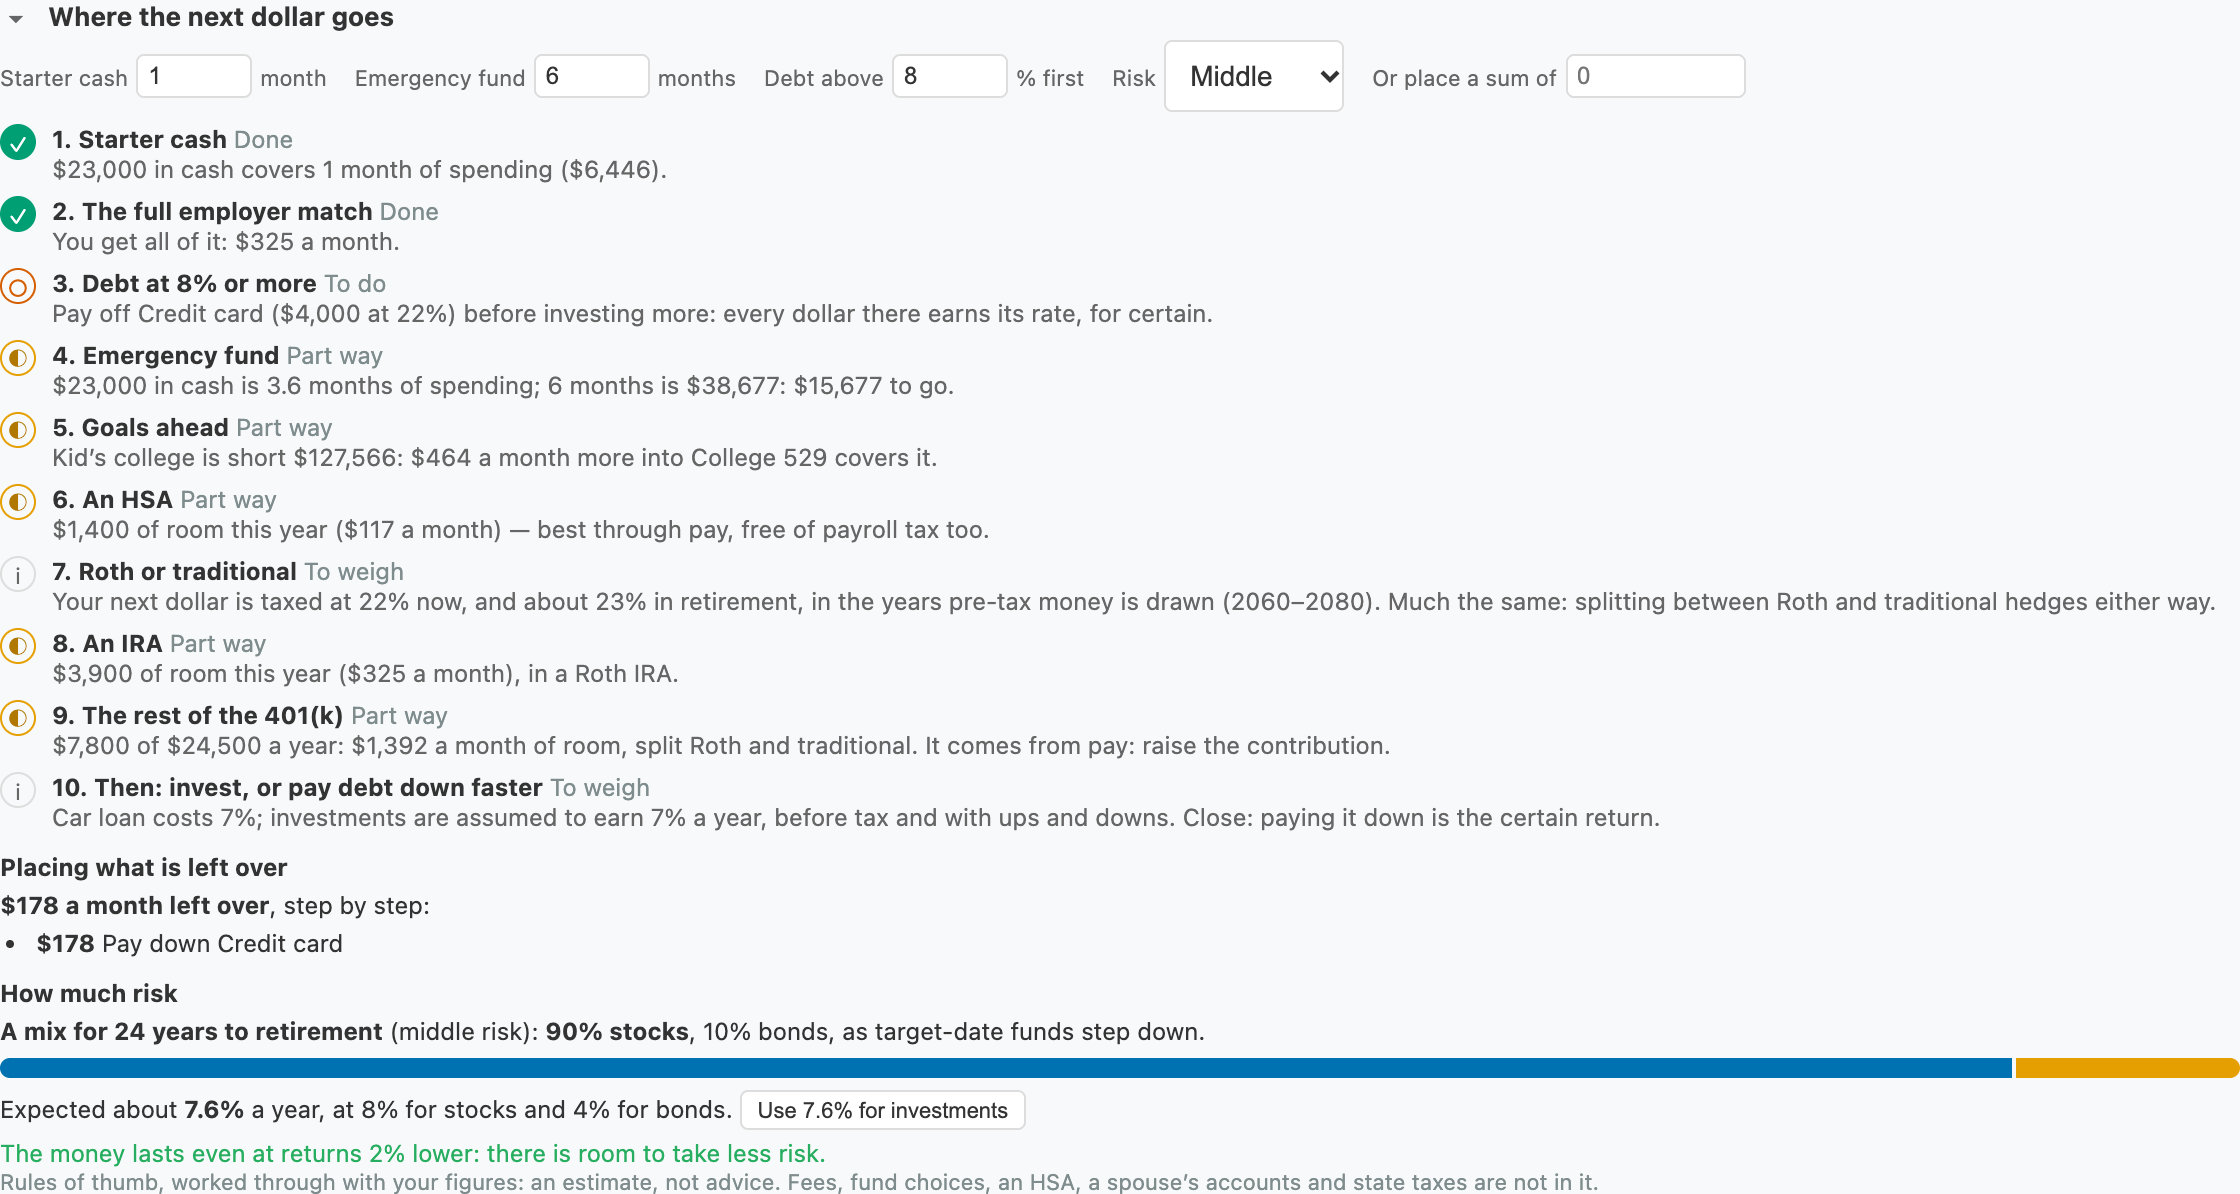
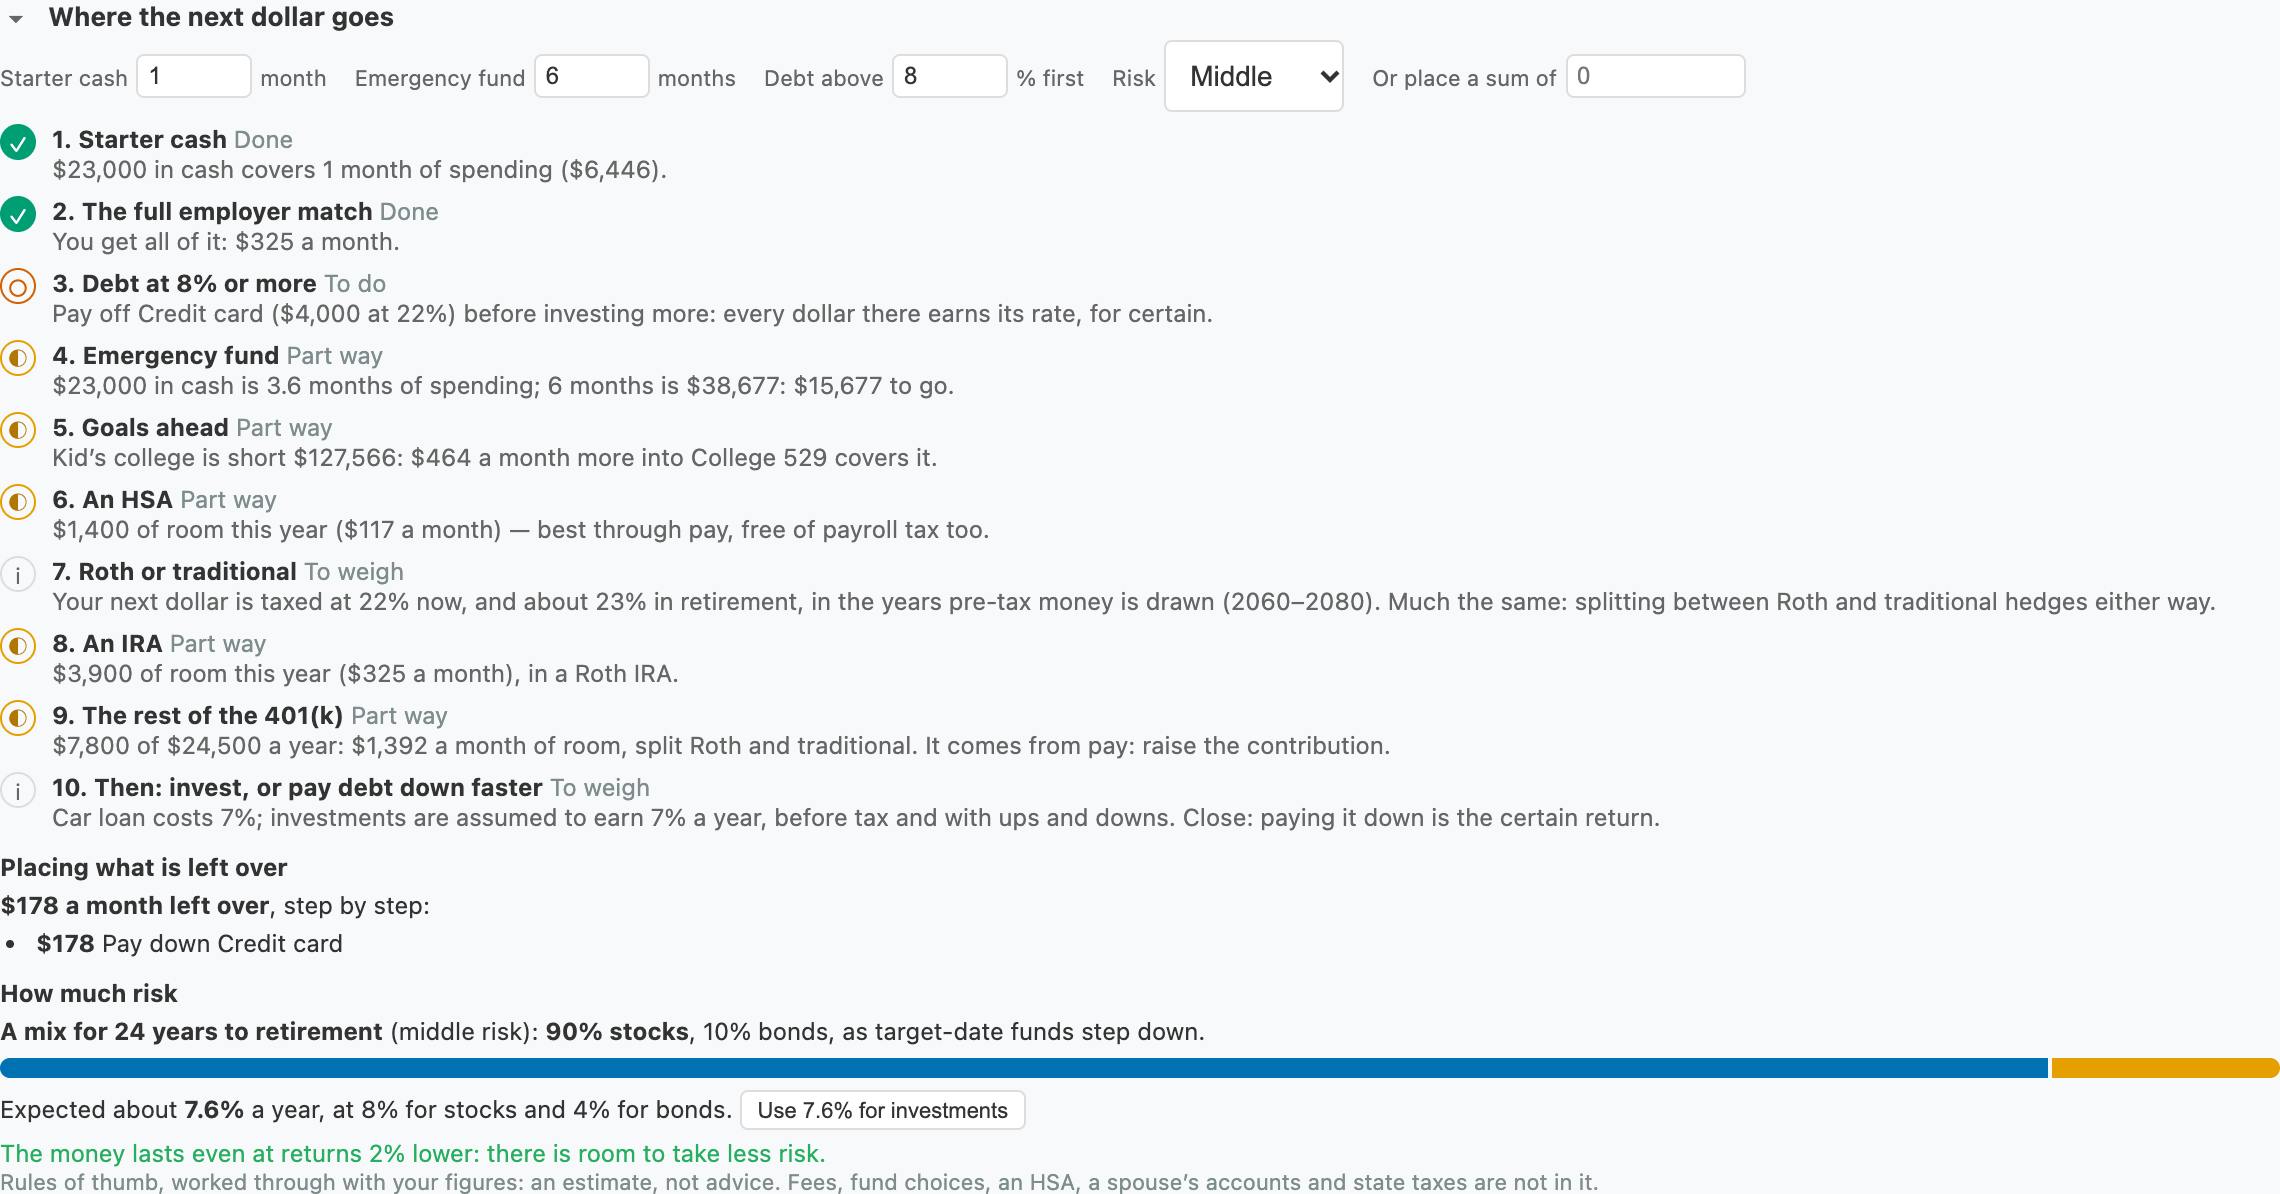
Finance Planning: Edit, Both and View, as a note has them
View shows what the plan comes to: the summary, a month now and Ahead. Edit shows what goes
into it, and Both puts them side by side with a divider. It opens on View and goes back
there on Esc or a click elsewhere; a double-click goes to Edit. A new plan opens on Edit,
having nothing yet to view, and a double-click on the chart or the years stays put.

The planner draws into panes that stay in place, so a redraw keeps each pane's scroll and
the divider's position.

diff --git a/plugins/toolboxes/finance-tools.js b/plugins/toolboxes/finance-tools.js
@@ -74,7 +74,11 @@
 .tb-grid input[data-k="divisor"] { width: 72px; }
 
 /* Finance Planning */
-.fp-widget { font-size: 12px; }
+.fp-widget { font-size: 12px; display: flex; flex-direction: column; flex: 1; min-height: 0; width: 100%; box-sizing: border-box; padding: 10px; }
+.fp-widget .authoring-source { flex: 1 1 60%; min-width: 0; overflow: auto; }
+.fp-widget .authoring-result { flex: 1 1 40%; min-width: 0; overflow: auto; }
+.tool.authoring-split .fp-widget .authoring-source { padding-right: 10px; }
+.tool.authoring-split .fp-widget .authoring-result { padding-left: 10px; }
 .fp-cards { display: grid; grid-template-columns: repeat(3, 1fr); gap: 8px; margin-bottom: 8px; }
 .fp-card { background: var(--bg-secondary); border-radius: 4px; padding: 8px 10px; }
 .fp-card-label { font-size: 11px; color: var(--text-muted); }
@@ -88,7 +92,8 @@
 .fp-bar-seg { display: block; height: 100%; border-radius: 2px; min-width: 3px; }
 .fp-legend { display: flex; flex-wrap: wrap; gap: 4px 12px; font-size: 11px; color: var(--text-secondary); margin-bottom: 6px; }
 .fp-legend i { display: inline-block; width: 10px; height: 10px; border-radius: 2px; margin-right: 4px; vertical-align: -1px; }
-.fp-empty { padding: 10px; margin: 8px 0; background: var(--bg-secondary); border-radius: 4px; color: var(--text-secondary); display: flex; gap: 10px; align-items: center; flex-wrap: wrap; }
+.fp-empty, .fp-view-empty { padding: 10px; margin: 8px 0; background: var(--bg-secondary); border-radius: 4px; color: var(--text-secondary); display: flex; gap: 10px; align-items: center; flex-wrap: wrap; }
+.tool:not(.authoring-render) .fp-view-empty { display: none; }
 .fp-section { margin-top: 14px; }
 .fp-section-head { display: flex; align-items: center; justify-content: space-between; gap: 8px; margin-bottom: 4px; }
 .fp-section-head h4 { margin: 0; font-size: 13px; flex: 1; }
@@ -3410,9 +3415,9 @@ function fpRender(widget) {
             '<span class="fp-head-acts">' + (actions || '') + '</span></div>' +
         '<div class="fp-body">' + body + '</div></section>';
     const allFolded = FP_SECTIONS.every(k => folded.has(k));
-    widget.innerHTML =
-        '<div class="fp-top"><button type="button" class="fp-btn fp-fold-all" onclick="fpFoldAll(this)">' + (allFolded ? 'Show all' : 'Hide all') + '</button></div>' +
-        sec('summary', 'Summary', '', '<div class="fp-rollup"></div>') +
+    fpPanes(widget);
+    widget.querySelector('.fp-head').innerHTML = '<div class="fp-top"><button type="button" class="fp-btn fp-fold-all" onclick="fpFoldAll(this)">' + (allFolded ? 'Show all' : 'Hide all') + '</button></div>';
+    widget.querySelector('.authoring-source').innerHTML =
         (empty ? '<div class="fp-empty">Start by adding what you have and owe, then what comes in and goes out. ' +
             '<button type="button" class="fp-btn" onclick="fpSample(this)">Fill in a made-up example</button></div>' : '') +
         sec('accounts', 'Accounts', '<button type="button" class="fp-btn" onclick="fpAddSection(this, \'accounts\')" title="A heading to group what follows under, with its totals">+ Section</button>' +
@@ -3437,7 +3442,6 @@ function fpRender(widget) {
             (fpEntries(plan.goals).length ? '' : '<div class="fp-note">Big costs ahead — college, a car, a wedding, a new roof — in today’s dollars. Unlike an expense, a goal is paid when it falls, retired or not.</div>') +
             '<table class="fp-table fp-goals">' + goalHead + '<tbody>' + goalRows + '</tbody></table><ul class="fp-goals-out"></ul>') +
         sec('retirement', 'Retirement', '', fpRetireFields(plan, attr, under)) +
-        sec('month', 'A month, now', '', '<div class="fp-month"></div>') +
         sec('advice', 'Where the next dollar goes', '', fpAdviceFields(plan, attr) + '<div class="fp-advice"></div>') +
         sec('assumptions', 'Assumptions', '', '<div class="fp-assume">' +
             '<label>Years ahead <input class="fp-in fp-num fp-small" type="number" min="1" max="60" data-a="years" value="' + attr(plan.assume.years) + '"></label>' +
@@ -3445,11 +3449,17 @@ function fpRender(widget) {
             '<label>Range ± <input class="fp-in fp-num fp-small" type="number" step="0.5" min="0" data-a="spread" value="' + attr(plan.assume.spread) + '"> % on investments</label>' +
             '<label>Goal <input class="fp-in fp-num" type="number" step="10000" data-a="target" value="' + attr(plan.assume.target) + '"> net worth</label>' +
             '<label class="fp-check"><input class="fp-in" type="checkbox" data-a="real"' + (plan.assume.real ? ' checked' : '') + '> In today’s money</label>' +
-            '</div><div class="fp-assume fp-returns"><span>Default rates:</span>' + returns + '</div>') +
+            '</div><div class="fp-assume fp-returns"><span>Default rates:</span>' + returns + '</div>');
+    widget.querySelector('.authoring-result').innerHTML =
+        (empty ? '<div class="fp-view-empty">Nothing to show yet: what you have and owe, what comes in and goes out, go in Edit. <button type="button" class="fp-btn" onclick="fpGoEdit(this)">Edit</button></div>' : '') +
+        sec('summary', 'Summary', '', '<div class="fp-rollup"></div>') +
+        sec('month', 'A month, now', '', '<div class="fp-month"></div>') +
         sec('ahead', 'Ahead', '<button type="button" class="fp-btn" onclick="fpCopySummary(this)" title="The rollup and the projection, as Markdown">Copy summary</button>',
             '<div class="fp-projection"></div>');
     widget.querySelectorAll('.fp-in').forEach(el => el.addEventListener(el.tagName === 'SELECT' || el.type === 'checkbox' ? 'change' : 'input', () => fpOnInput(el)));
     fpRenderDerived(widget, plan);
+    // A new plan has nothing yet to view: it opens where it is filled in.
+    if (empty && !(toolCustomizations[toolId] || {}).viewMode) setToolMode(toolId, 'edit');
 }
 
 /**
@@ -4833,6 +4843,25 @@ function fpRemove(btn) {
     fpRender(widget);
 }
 
+/** What goes in beside what it comes to, as the note's panes are. They stay put and what is
+ *  in them is drawn again, so a redraw keeps each pane's scroll and the divider's place. */
+const FP_PANES = '<div class="fp-head"></div><div class="authoring-split"><div class="authoring-source"></div><div class="authoring-resizer"></div>' +
+    '<div class="authoring-result" ondblclick="fpResultDblClick(event)"></div></div>';
+
+function fpPanes(widget) {
+    if (!widget.querySelector('.authoring-split')) widget.innerHTML = FP_PANES;
+}
+
+/** A double-click on the result goes to Edit, as a note's does; but the chart, the years
+ *  and a year taken apart are clicked anyway, and a second click is not a request to leave. */
+function fpResultDblClick(e) {
+    if (e.target.closest('.fp-chart, .fp-year-row, .fp-yd, .fp-range')) e.stopPropagation();
+}
+
+function fpGoEdit(btn) {
+    setToolMode(fpToolId(btn), 'edit');
+}
+
 function fpDupButton() {
     return '<button type="button" class="fp-dup" onclick="fpDuplicate(this)" title="Duplicate" aria-label="Duplicate this line"><svg viewBox="0 0 14 14" width="12" height="12" fill="none" stroke="currentColor" stroke-width="1.4" aria-hidden="true">' +
         '<rect x="1" y="1" width="8.5" height="8.5" rx="1"/><path d="M12.5 4.5v8h-8"/></svg></button>';
@@ -4930,6 +4959,7 @@ function fpApplyHashParams(toolId, params) {
     ];
     fpSet(toolId, p);
     fpRender(widget);
+    setToolMode(toolId, 'render');
 }
 
 // ---- The calculators, for a moment ---------------------------------------------------------
@@ -5306,7 +5336,7 @@ function fpAIFinish(result) {
 (function injectScriptsForExport() {
     if (document.getElementById('finance-tools-scripts')) return;
 
-    const functionsToExport = [fpDuplicate, fpToggleLine, fpOffNames, fpLiveLine, fpRetireByJob, fpLastJob, fpRetireLines, fpRetireFields, fpRenderRetire, fpTaxInfo, fpSSTaxable, fpFederalTax, fpPayrollTax, fpPretaxPay, fpBasisOf, fpBirthYear, fpBirthOf, fpAgeAt, fpWhen, fpMonthAt, fpRefreshAgeHints, fpLimitCheck, fpLimitText, fpTaxWith, fpRmdAge, fpRmdFactor, fpRetKey, fpKindLabel, fpIsPretax, fpRetireInfo, fpRetireSpending, fpDrawOrder, fpRetireMax, fpHealthOf, fpPayGap, fpAdviceFields, fpMarginal, fpAdviceSteps, fpAdviceSplit, fpAdviceMix, fpAdviceHtml, fpUseMixReturn, fpResetDrawOrder, fpLimitGroup, fpGroupLimit, fpGroupOwn, fpMatchOf, fpNeededToStop, fpNeededFor, fpNeededText, fpAIEsc, fpAIName, fpAIFacts, fpAITarget, fpAICleanDraft, fpAIDraftPreview, fpAICleanSections, fpAISectionsPreview, fpAIApply, fpAIFinish, fpFullRetirementMonths, fpClaimFactor, fpSSEstimate, fpSSPayOf, fpWithEstimates, fpSSEstimateFields, fpSSInfo, fpAgeText, fpAddSocialSecurity, fpPayrollTarget, fpIntoRows, fpIntoOf, fpAddInto, fpRemoveInto, fpSetInto, fpPayrollNow, fpPayrollMonthlyOf, fpIncomeDetailsRow, fpIncomeDetailSummary, fpRefreshIncomeDetails, fpEscrowOf, fpPerMonth, fpHasTypedTax, fpIsSection, fpEntries, fpCalc, fpSectionsOf, fpSectionTotal, fpRefreshSections, fpAddSection, fpSectionFold, fpOpenAround, fpMoveSection, fpSectionIds, fpGrip, fpMoveItem, fpGripKey, fpDragStart, fpDragOver, fpDragLeave, fpDrop, fpDragEnd, fpFoldedOf, fpSaveFolded, fpChartSpan, fpChartRange, fpFold, fpFoldAll, fpShowFolded, fpCents, fpClosing, fpLoanTerms, fpBalanceOf, fpMonthlyOf, fpDetailsRow, fpRefreshAccounts, fpDetailSummary, fpToggleDetails, fpTaxYearOptions, fpDefaultPlan, fpNum, fpNewId, fpToolId, fpGet, fpSet, fpRateOf, fpMonthly, fpActive, fpSurplusAccount, fpIncomeTax, fpYm, fpProject, fpRollup, fpMoney, fpMonthText, fpInit, fpRender, fpRenderDerived, fpChart, fpWidget, fpOnInput, fpAdd, fpRemove, fpSample, fpApplyHashParams, fpOpenAccountTool, fpOpenTax, fpSummaryText, fpCopySummary,
+    const functionsToExport = [fpResultDblClick, fpGoEdit, fpDuplicate, fpToggleLine, fpOffNames, fpLiveLine, fpRetireByJob, fpLastJob, fpRetireLines, fpRetireFields, fpRenderRetire, fpTaxInfo, fpSSTaxable, fpFederalTax, fpPayrollTax, fpPretaxPay, fpBasisOf, fpBirthYear, fpBirthOf, fpAgeAt, fpWhen, fpMonthAt, fpRefreshAgeHints, fpLimitCheck, fpLimitText, fpTaxWith, fpRmdAge, fpRmdFactor, fpRetKey, fpKindLabel, fpIsPretax, fpRetireInfo, fpRetireSpending, fpDrawOrder, fpRetireMax, fpHealthOf, fpPayGap, fpAdviceFields, fpMarginal, fpAdviceSteps, fpAdviceSplit, fpAdviceMix, fpAdviceHtml, fpUseMixReturn, fpResetDrawOrder, fpLimitGroup, fpGroupLimit, fpGroupOwn, fpMatchOf, fpNeededToStop, fpNeededFor, fpNeededText, fpAIEsc, fpAIName, fpAIFacts, fpAITarget, fpAICleanDraft, fpAIDraftPreview, fpAICleanSections, fpAISectionsPreview, fpAIApply, fpAIFinish, fpFullRetirementMonths, fpClaimFactor, fpSSEstimate, fpSSPayOf, fpWithEstimates, fpSSEstimateFields, fpSSInfo, fpAgeText, fpAddSocialSecurity, fpPayrollTarget, fpIntoRows, fpIntoOf, fpAddInto, fpRemoveInto, fpSetInto, fpPayrollNow, fpPayrollMonthlyOf, fpIncomeDetailsRow, fpIncomeDetailSummary, fpRefreshIncomeDetails, fpEscrowOf, fpPerMonth, fpHasTypedTax, fpIsSection, fpEntries, fpCalc, fpSectionsOf, fpSectionTotal, fpRefreshSections, fpAddSection, fpSectionFold, fpOpenAround, fpMoveSection, fpSectionIds, fpGrip, fpMoveItem, fpGripKey, fpDragStart, fpDragOver, fpDragLeave, fpDrop, fpDragEnd, fpFoldedOf, fpSaveFolded, fpChartSpan, fpChartRange, fpFold, fpFoldAll, fpShowFolded, fpCents, fpClosing, fpLoanTerms, fpBalanceOf, fpMonthlyOf, fpDetailsRow, fpRefreshAccounts, fpDetailSummary, fpToggleDetails, fpTaxYearOptions, fpDefaultPlan, fpNum, fpNewId, fpToolId, fpGet, fpSet, fpRateOf, fpMonthly, fpActive, fpSurplusAccount, fpIncomeTax, fpYm, fpProject, fpRollup, fpMoney, fpMonthText, fpInit, fpRender, fpRenderDerived, fpChart, fpWidget, fpOnInput, fpAdd, fpRemove, fpSample, fpApplyHashParams, fpOpenAccountTool, fpOpenTax, fpSummaryText, fpCopySummary,
         taxRulesBuiltin, taxMergeShape, taxRuleNum, taxRulesOf, taxRulesFor, fpAgeShort, taxBuiltin, taxClone, taxTableLoad, taxTableSave, taxTableChanged, taxYearsOf, taxDefaultYear, taxProblems, taxBracketsFor,
         tbToolId, tbYearOf, tbMoney, tbInit, tbRender, tbRefreshDerived, tbReadStatus, tbStore, tbOnInput, tbAddBracket, tbRemoveBracket,
         tbSetYear, tbPickYear, tbAddYear, tbDeleteYear, tbResetYear, tbTabOf, tbPickTab, tbShow, tbGetPath, tbSetPath, tbField, tbRows, tbPanel, taxRuleProblems,
@@ -5399,9 +5429,22 @@ PluginRegistry.registerTool({
     toolbox: 'finance',
     tags: ['finance', 'net worth', 'budget', 'planning', 'projection', 'accounts', 'retirement'],
     title: 'Finance Planning',
-    content: '<div class="calc-widget fp-widget"></div>',
+    content: '<div class="calc-widget fp-widget">' + FP_PANES + '</div>',
     // The page written about it, opened from the ? in its header.
     guide: 'learn/tools/finance-planning.html',
+    // What goes in, what it comes to, or the two side by side — as a note has them: it opens
+    // on what it comes to, and goes back there when you look away. The one difference is a
+    // new plan, which opens on Edit (fpRender), having nothing yet to view.
+    authoring: {
+        modes: ['edit', 'split', 'render'],
+        defaultMode: 'render',
+        titles: {
+            edit: 'What goes into the plan',
+            render: 'What it comes to: the summary, a month now and Ahead'
+        },
+        source: '.authoring-source',
+        result: '.authoring-result'
+    },
     // ?example=1 fills an empty planner with the made-up example.
     hashParams: 'fpApplyHashParams',
     // ✨ where Chrome's own model can run — on the device, so a person's figures stay

diff --git a/learn/tools/finance-planning.html b/learn/tools/finance-planning.html
@@ -47,10 +47,9 @@
 </section>
 
 <figure>
-    <img src="../assets/finance-planning.png" alt="The Finance Planning tool: a summary of assets, liabilities and net worth, then the accounts, the income, the expenses and the goals of a made-up household" width="1150">
+    <img src="../assets/finance-planning.png" alt="The Finance Planning tool in Edit: the accounts, the income, the expenses and the goals of a made-up household" width="1150">
     <figcaption>
-        The made-up example: what is held and owed rolled up into net worth, and each account,
-        income, expense and goal on a line of its own.
+        The made-up example in Edit: each account, income, expense and goal on a line of its own.
     </figcaption>
 </figure>
 
@@ -222,6 +221,19 @@
     What goes out, per month or per year, each rising with inflation unless given a rate of its
     own, and each able to start or stop in a given month — childcare that ends, a car payment
     that begins. Loan payments are not expenses here: they come from the loans themselves.
+</p>
+
+<h2 id="modes">Edit, Both and View</h2>
+<p>
+    Hover over the planner for three buttons, which work as a note's do. <strong>View</strong> shows
+    what the plan comes to: the summary, a month now and Ahead. <strong>Edit</strong> shows what goes
+    into it: accounts, income, expenses, goals, retirement, where the next dollar goes and the
+    assumptions. <strong>Both</strong> puts them side by side, with a divider to drag.
+</p>
+<p>
+    It opens on View, and a new plan on Edit. Double-click in View to edit, though not on the chart
+    or the years, which are clicked anyway. Press Esc or click elsewhere on the board and it goes
+    back to View; nothing you typed is lost.
 </p>
 
 <h2 id="off">Turning a line off</h2>
